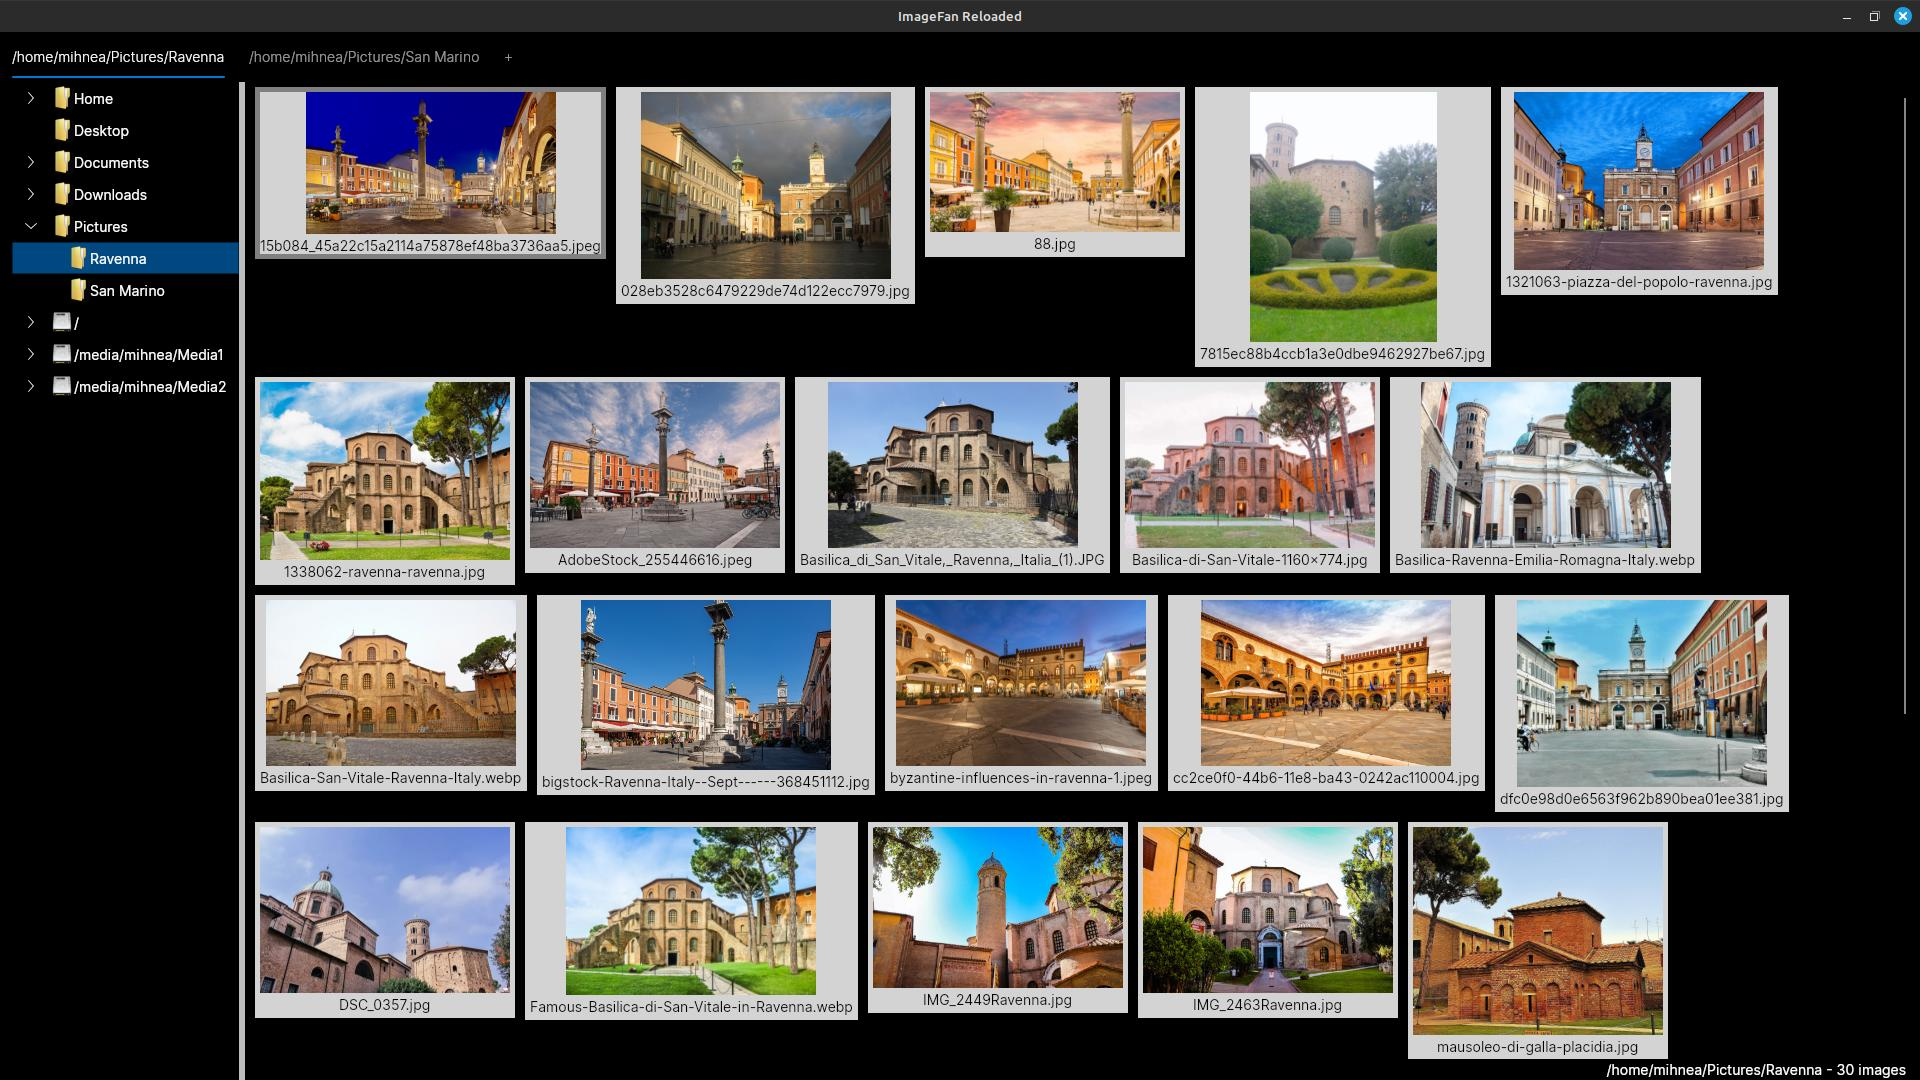
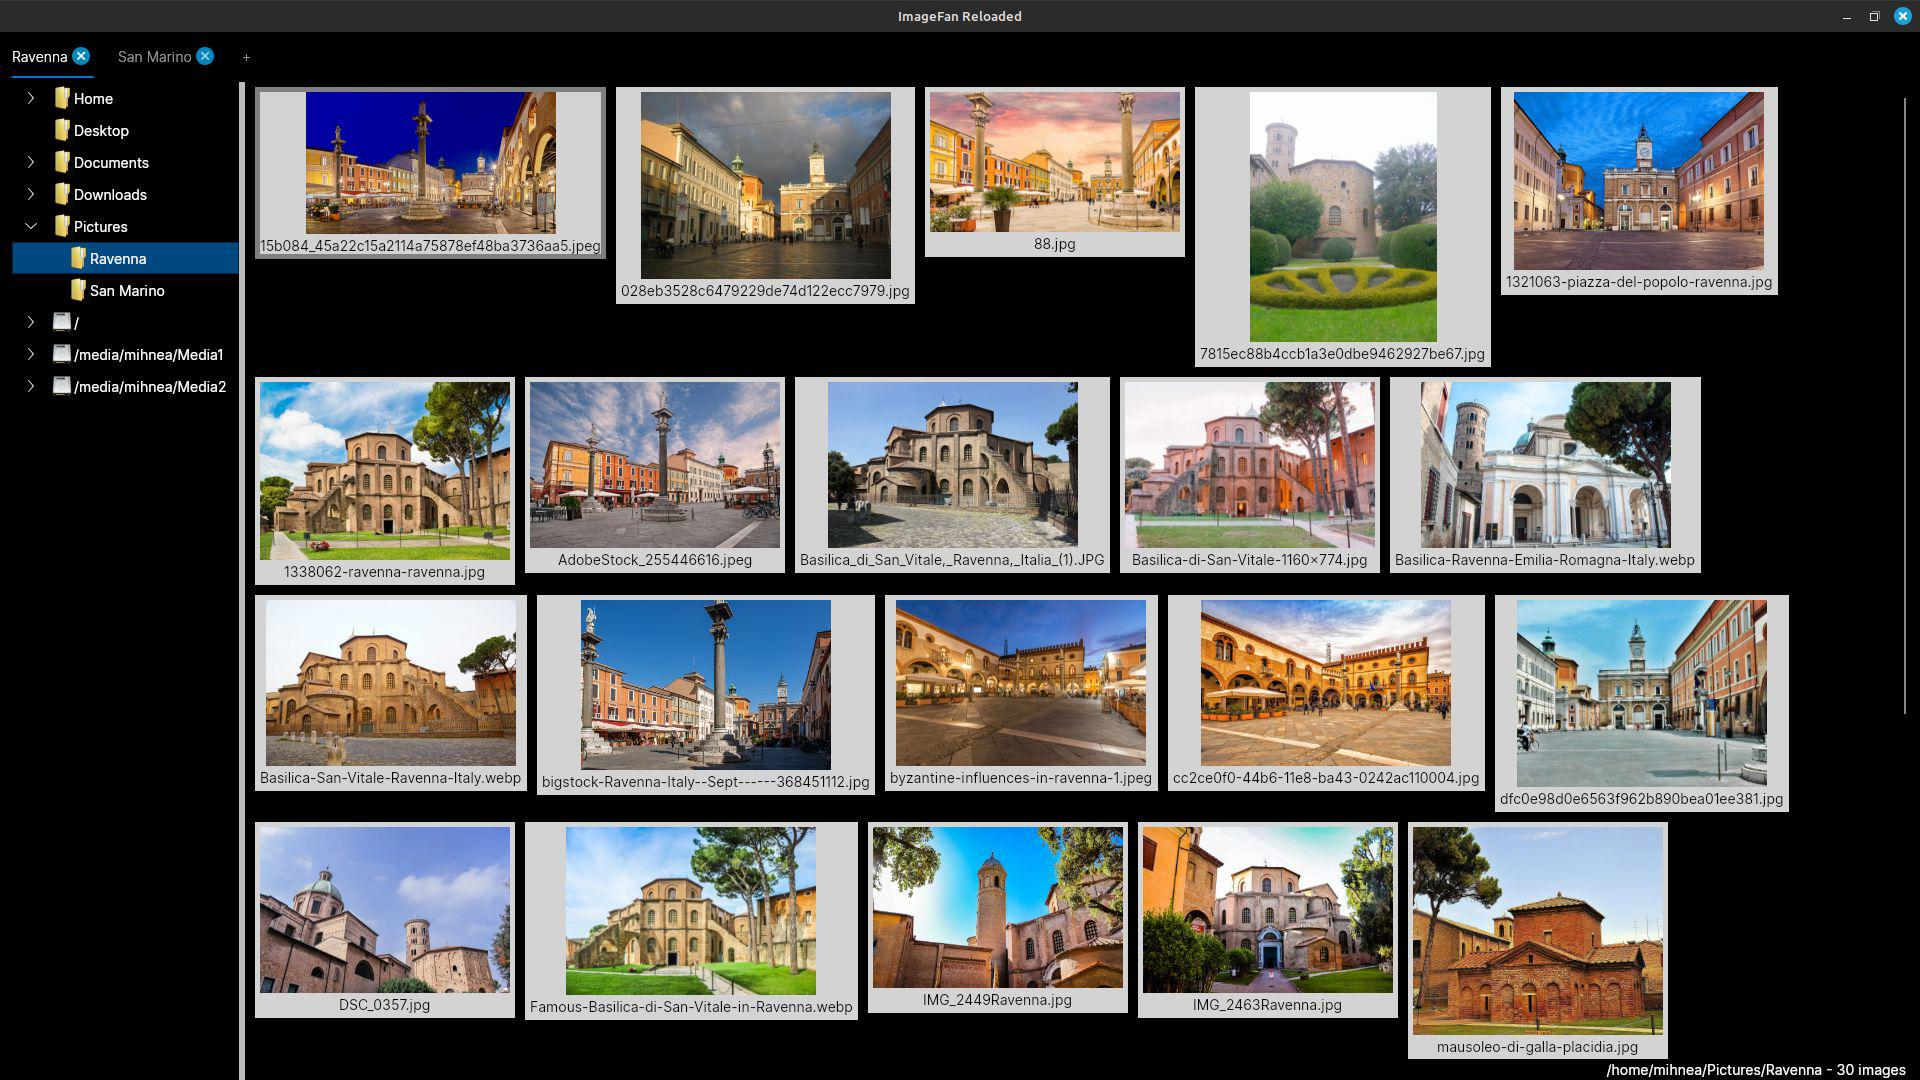
Added support for event handler disposal

Changed region(s): [[0.0, 0.0306, 0.25, 0.0917], [0.5312, 0.7639, 0.5625, 0.7944], [0.3125, 0.4278, 0.3438, 0.4583]]

diff --git a/ImageFanReloaded/Controls/Implementation/ContentTabItem.axaml.cs b/ImageFanReloaded/Controls/Implementation/ContentTabItem.axaml.cs
@@ -7,6 +7,7 @@ using ImageFanReloaded.CommonTypes.CustomEventArgs;
 using ImageFanReloaded.CommonTypes.Info;
 using ImageFanReloaded.Factories;
 using ImageFanReloaded.Infrastructure;
+using ImageFanReloaded.Views;
 
 namespace ImageFanReloaded.Controls.Implementation;
 
@@ -20,6 +21,7 @@ public partial class ContentTabItem : UserControl, IContentTabItem
 	public TabItem? TabItem { get; set; }
     public Window? Window { get; set; }
     
+    public IMainView? MainView { get; set; }
     public IContentTabItemHeader? ContentTabItemHeader { get; set; }
 
 	public IImageViewFactory? ImageViewFactory { get; set; }
@@ -50,11 +52,10 @@ public partial class ContentTabItem : UserControl, IContentTabItem
 		}
 	}
 
-	public void OnTabCountChanged(object? sender, TabCountChangedEventArgs e)
-		=> ShouldAllowClose(e.ShouldDisplayTabCloseButton);
+	public void SetTitle(string title) => ContentTabItemHeader!.SetTabTitle(title);
 
-	public void SetTitle(string title)
-		=> ContentTabItemHeader!.SetTabTitle(title);
+	public void RegisterMainViewEvents() => MainView!.TabCountChanged += OnTabCountChanged;
+	public void UnregisterMainViewEvents() => MainView!.TabCountChanged -= OnTabCountChanged;
 
 	public void PopulateSubFoldersTree(IReadOnlyCollection<FileSystemEntryInfo> subFolders,
 									   bool rootNodes)
@@ -92,6 +93,7 @@ public partial class ContentTabItem : UserControl, IContentTabItem
 			foreach (var aThumbnailBox in _thumbnailBoxList)
 			{
 				aThumbnailBox.DisposeThumbnail();
+				aThumbnailBox.ThumbnailBoxClicked -= OnThumbnailBoxClicked;
 			}
 		}
 		
@@ -116,21 +118,7 @@ public partial class ContentTabItem : UserControl, IContentTabItem
 			};
 
 			thumbnailInfo.ThumbnailBox = aThumbnailBox;
-
-			aThumbnailBox.ThumbnailBoxClicked +=
-				(sender, e) =>
-				{
-					var thumbnailBox = (ThumbnailBox)sender!;
-
-					if (thumbnailBox.IsSelected)
-					{
-						DisplayImage();
-					}
-					else
-					{
-						SelectThumbnailBox(thumbnailBox);
-					}
-				};
+			aThumbnailBox.ThumbnailBoxClicked += OnThumbnailBoxClicked;
 
 			_thumbnailBoxList!.Add(aThumbnailBox);
 
@@ -171,23 +159,45 @@ public partial class ContentTabItem : UserControl, IContentTabItem
 	private int _selectedThumbnailIndex;
 	private ThumbnailBox? _selectedThumbnailBox;
 
+	private void OnThumbnailBoxClicked(object? sender, ThumbnailBoxEventArgs e)
+	{
+		var thumbnailBox = e.ThumbnailBox;
+
+		if (thumbnailBox.IsSelected)
+		{
+			DisplayImage();
+		}
+		else
+		{
+			SelectThumbnailBox(thumbnailBox);
+		}
+	}
+
     private void OnFolderTreeViewSelectedItemChanged(object? sender,
 													 SelectionChangedEventArgs e)
 	{
-		var folderChangedHandler = FolderChanged;
+		var selectedFolderTreeViewItem = (TreeViewItem)e.AddedItems[0]!;
+		var fileSystemEntryItem = (IFileSystemEntryItem)selectedFolderTreeViewItem.Header!;
 
-		if (folderChangedHandler is not null)
+		var fileSystemEntryInfo = fileSystemEntryItem.FileSystemEntryInfo;
+		var selectedFolderName = fileSystemEntryInfo.Name;
+		var selectedFolderPath = fileSystemEntryInfo.Path;
+
+		FolderChanged?.Invoke(
+			this, new FolderChangedEventArgs(selectedFolderName, selectedFolderPath));
+	}
+    
+	private void OnTabCountChanged(object? sender, TabCountChangedEventArgs e)
+		=> ShowCloseButton(e.ShowTabCloseButton);
+
+	private void OnThumbnailChanged(object? sender, ThumbnailChangedEventArgs e)
+	{
+		var imageView = e.ImageView;
+		var increment = e.Increment;
+		
+		if (AdvanceToThumbnailIndex(increment))
 		{
-			var selectedFolderTreeViewItem = (TreeViewItem)e.AddedItems[0]!;
-			var fileSystemEntryItem = (IFileSystemEntryItem)
-				selectedFolderTreeViewItem.Header!;
-
-			var fileSystemEntryInfo = fileSystemEntryItem.FileSystemEntryInfo;
-			var selectedFolderName = fileSystemEntryInfo.Name;
-			var selectedFolderPath = fileSystemEntryInfo.Path;
-
-			folderChangedHandler(
-				this, new FolderChangedEventArgs(selectedFolderName, selectedFolderPath));
+			imageView.SetImage(_selectedThumbnailBox!.ImageFile!);
 		}
 	}
 
@@ -233,16 +243,9 @@ public partial class ContentTabItem : UserControl, IContentTabItem
 		var imageView = ImageViewFactory!.GetImageView();
 		imageView.SetImage(_selectedThumbnailBox!.ImageFile!);
 
-		imageView.ThumbnailChanged +=
-			(sender, e) =>
-			{
-				if (AdvanceToThumbnailIndex(e.Increment))
-				{
-					imageView.SetImage(_selectedThumbnailBox!.ImageFile!);
-				}
-			};
-
+		imageView.ThumbnailChanged += OnThumbnailChanged;
 		await imageView.ShowDialog(Window!);
+		imageView.ThumbnailChanged -= OnThumbnailChanged;
 
 		_selectedThumbnailBox?.Focus();
 	}
@@ -267,8 +270,8 @@ public partial class ContentTabItem : UserControl, IContentTabItem
 		return treeViewItem;
 	}
 	
-	private void ShouldAllowClose(bool allowClose)
-		=> ContentTabItemHeader!.ShouldShowTabCloseButton(allowClose);
+	private void ShowCloseButton(bool showTabCloseButton)
+		=> ContentTabItemHeader!.ShowTabCloseButton(showTabCloseButton);
 
 	#endregion
 }

diff --git a/ImageFanReloaded/Views/Implementation/MainWindow.axaml.cs b/ImageFanReloaded/Views/Implementation/MainWindow.axaml.cs
@@ -101,7 +101,7 @@ public partial class MainWindow : Window, IMainView
 
 	private void AddContentTabItem()
 	{
-		var (contentTabItem, tabItem) = GetTabItemData();
+		var (contentTabItem, tabItem) = BuildTabItemData();
 
 		var contentTabItemCount = GetContentTabItemCount();
 		_tabControl.Items.Insert(contentTabItemCount, tabItem);
@@ -110,11 +110,12 @@ public partial class MainWindow : Window, IMainView
 		TabCountChanged?.Invoke(this, new TabCountChangedEventArgs(ShouldAllowTabClose()));
 	}
 
-	private (ContentTabItem contentTabItem, TabItem tabItem) GetTabItemData()
+	private (ContentTabItem contentTabItem, TabItem tabItem) BuildTabItemData()
 	{
 		var contentTabItem = new ContentTabItem
 		{
-			Window = this
+			Window = this,
+			MainView = this
 		};
 
 		var contentTabItemHeader = new ContentTabItemHeader
@@ -124,9 +125,9 @@ public partial class MainWindow : Window, IMainView
 
 		contentTabItem.ContentTabItemHeader = contentTabItemHeader;
 		contentTabItem.ContentTabItemHeader.TabClosed += CloseContentTabItem;
+		contentTabItem.RegisterMainViewEvents();
 		
 		contentTabItem.SetTitle(DefaultTabItemTitle);
-		TabCountChanged += contentTabItem.OnTabCountChanged;
 		
 		var tabItem = new TabItem
 		{
@@ -159,6 +160,9 @@ public partial class MainWindow : Window, IMainView
 		var tabItem = contentTabItem.TabItem;
 		_tabControl.Items.Remove(tabItem);
 		TabCountChanged?.Invoke(this, new TabCountChangedEventArgs(ShouldAllowTabClose()));
+		
+		contentTabItem.ContentTabItemHeader!.TabClosed -= CloseContentTabItem;
+		contentTabItem.UnregisterMainViewEvents();
 	}
 
     #endregion

diff --git a/ImageFanReloaded/Controls/IContentTabItem.cs b/ImageFanReloaded/Controls/IContentTabItem.cs
@@ -6,6 +6,7 @@ using ImageFanReloaded.CommonTypes.CustomEventArgs;
 using ImageFanReloaded.CommonTypes.Info;
 using ImageFanReloaded.Factories;
 using ImageFanReloaded.Infrastructure;
+using ImageFanReloaded.Views;
 
 namespace ImageFanReloaded.Controls;
 
@@ -14,6 +15,7 @@ public interface IContentTabItem
 	TabItem? TabItem { get; set; }
 	Window? Window { get; set; }
 	
+	IMainView? MainView { get; set; }
 	IContentTabItemHeader? ContentTabItemHeader { get; set; }
 	
     IImageViewFactory? ImageViewFactory { get; set; }
@@ -24,9 +26,11 @@ public interface IContentTabItem
 	event EventHandler<FolderChangedEventArgs>? FolderChanged;
 	
 	void OnKeyPressed(object? sender, KeyEventArgs e);
-	void OnTabCountChanged(object? sender, TabCountChangedEventArgs e);
 
 	void SetTitle(string title);
+
+	void RegisterMainViewEvents();
+	void UnregisterMainViewEvents();
 
 	void PopulateSubFoldersTree(IReadOnlyCollection<FileSystemEntryInfo> subFolders,
 								bool rootNodes);

diff --git a/ImageFanReloaded/Controls/Implementation/ThumbnailBox.axaml.cs b/ImageFanReloaded/Controls/Implementation/ThumbnailBox.axaml.cs
@@ -2,6 +2,7 @@ using System;
 using Avalonia.Controls;
 using Avalonia.Input;
 using Avalonia.Media;
+using ImageFanReloaded.CommonTypes.CustomEventArgs;
 using ImageFanReloaded.CommonTypes.ImageHandling;
 using ImageFanReloaded.CommonTypes.Info;
 
@@ -16,7 +17,7 @@ public partial class ThumbnailBox : UserControl, IRefreshableControl
 		SetControlProperties();
 	}
 
-	public event EventHandler<EventArgs>? ThumbnailBoxClicked;
+	public event EventHandler<ThumbnailBoxEventArgs>? ThumbnailBoxClicked;
 
 	public IImageFile? ImageFile { get; private set; }
 	public bool IsSelected { get; private set; }
@@ -76,7 +77,7 @@ public partial class ThumbnailBox : UserControl, IRefreshableControl
 	{
 		if (e.InitialPressMouseButton == MouseButton.Left)
 		{
-			ThumbnailBoxClicked?.Invoke(this, EventArgs.Empty);
+			ThumbnailBoxClicked?.Invoke(this, new ThumbnailBoxEventArgs(this));
 		}
 	}
 

diff --git a/ImageFanReloaded/Presenters/MainPresenter.cs b/ImageFanReloaded/Presenters/MainPresenter.cs
@@ -39,18 +39,19 @@ public class MainPresenter
 	private void OnContentTabItemAdded(object? sender, ContentTabItemEventArgs e)
 	{
 		var contentTabItem = e.ContentTabItem;
-
+		
 		contentTabItem.ImageViewFactory = _imageViewFactory;
 		contentTabItem.GenerateThumbnailsLockObject = new object();
-
 		contentTabItem.FolderChanged += OnFolderChanged;
 
 		PopulateDrivesAndSpecialFolders(contentTabItem);
 	}
 	
-	private static void OnContentTabItemClosed(object? sender, ContentTabItemEventArgs e)
+	private void OnContentTabItemClosed(object? sender, ContentTabItemEventArgs e)
 	{
 		var contentTabItem = e.ContentTabItem;
+		
+		contentTabItem.FolderChanged -= OnFolderChanged;
 
 		ClearContentTabItem(contentTabItem);
 	}

diff --git a/ImageFanReloaded/CommonTypes/CustomEventArgs/ThumbnailChangedEventArgs.cs b/ImageFanReloaded/CommonTypes/CustomEventArgs/ThumbnailChangedEventArgs.cs
@@ -1,13 +1,16 @@
 using System;
+using ImageFanReloaded.Views;
 
 namespace ImageFanReloaded.CommonTypes.CustomEventArgs;
 
 public class ThumbnailChangedEventArgs : EventArgs
 {
-    public ThumbnailChangedEventArgs(int increment)
+    public ThumbnailChangedEventArgs(IImageView imageView, int increment)
     {
+        ImageView = imageView;
         Increment = increment;
     }
 
+    public IImageView ImageView { get; }
     public int Increment { get; }
 }

diff --git a/ImageFanReloaded/CommonTypes/CustomEventArgs/TabCountChangedEventArgs.cs b/ImageFanReloaded/CommonTypes/CustomEventArgs/TabCountChangedEventArgs.cs
@@ -4,10 +4,10 @@ namespace ImageFanReloaded.CommonTypes.CustomEventArgs;
 
 public class TabCountChangedEventArgs : EventArgs
 {
-	public TabCountChangedEventArgs(bool shouldDisplayTabCloseButton)
+	public TabCountChangedEventArgs(bool showTabCloseButton)
 	{
-		ShouldDisplayTabCloseButton = shouldDisplayTabCloseButton;
+		ShowTabCloseButton = showTabCloseButton;
 	}
 
-	public bool ShouldDisplayTabCloseButton { get; }
+	public bool ShowTabCloseButton { get; }
 }

diff --git a/ImageFanReloaded/Controls/Implementation/ContentTabItemHeader.axaml.cs b/ImageFanReloaded/Controls/Implementation/ContentTabItemHeader.axaml.cs
@@ -19,7 +19,7 @@ public partial class ContentTabItemHeader : UserControl, IContentTabItemHeader
 	public void SetTabTitle(string tabTitle)
 		=> _textBlockTabTitle.Text = tabTitle;
 
-	public void ShouldShowTabCloseButton(bool showTabCloseButton)
+	public void ShowTabCloseButton(bool showTabCloseButton)
 		=> _borderTabClose.IsVisible = showTabCloseButton;
 
 	#region Private

diff --git a/ImageFanReloaded/CommonTypes/CustomEventArgs/ThumbnailBoxEventArgs.cs b/ImageFanReloaded/CommonTypes/CustomEventArgs/ThumbnailBoxEventArgs.cs
@@ -1,0 +1,14 @@
+using System;
+using ImageFanReloaded.Controls.Implementation;
+
+namespace ImageFanReloaded.CommonTypes.CustomEventArgs;
+
+public class ThumbnailBoxEventArgs : EventArgs
+{
+	public ThumbnailBoxEventArgs(ThumbnailBox thumbnailBox)
+	{
+		ThumbnailBox = thumbnailBox;
+	}
+	
+	public ThumbnailBox ThumbnailBox { get; }
+}

diff --git a/ImageFanReloaded/Views/Implementation/ImageWindow.axaml.cs b/ImageFanReloaded/Views/Implementation/ImageWindow.axaml.cs
@@ -174,7 +174,8 @@ public partial class ImageWindow : Window, IImageView
 
 	private void RaiseThumbnailChanged(int increment)
 	{
-		ThumbnailChanged?.Invoke(this, new ThumbnailChangedEventArgs(increment));
+		ThumbnailChanged?.Invoke(
+			this, new ThumbnailChangedEventArgs(this, increment));
 	}
 
 	private void DragImage()

diff --git a/ImageFanReloaded/Controls/IContentTabItemHeader.cs b/ImageFanReloaded/Controls/IContentTabItemHeader.cs
@@ -11,5 +11,5 @@ public interface IContentTabItemHeader
 	
 	void SetTabTitle(string tabTitle);
 
-	void ShouldShowTabCloseButton(bool showTabCloseButton);
+	void ShowTabCloseButton(bool showTabCloseButton);
 }
